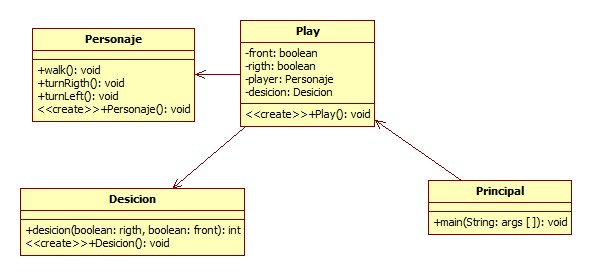
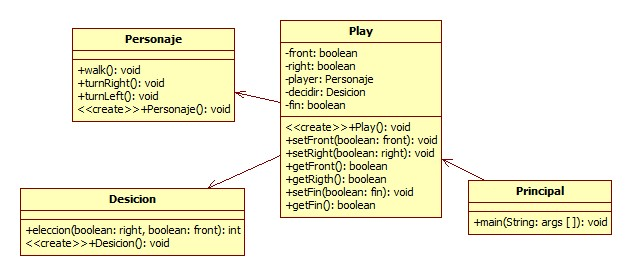
clases terminadas y uml arreglado

diff --git a/Programacion/Play.java b/Programacion/Play.java
@@ -1,0 +1,55 @@
+/******************************
+*
+*
+*
+*
+******************************/
+
+public class Play{
+	private boolean front;
+	private boolean right;
+	private Personaje player;
+	private Desicion decidir;
+	private boolean fin=false;
+
+	public void Play(){
+	}
+
+	public void run(){
+		int escoger=decidir.desicion();
+		if(escoger==0)
+			player.turnRight();
+		else if(escoger==1){
+			player.walk();
+		else
+			player.turnLeft();
+		}
+	}
+
+	public void setFront(boolean front){
+		this.front=front;
+	}
+
+	public void setRight(boolean right){
+		this.right=right;
+	}
+
+	public void setFin(boolean fin){
+		this.fin=fin;
+	}
+
+	public boolean getFront(){
+		return front;
+	}
+
+	public boolean getRight(){
+		return right;
+	}
+
+	public boolean getFin(){
+		return fin;
+	}
+
+}
+
+

diff --git a/Programacion/Desicion.java b/Programacion/Desicion.java
@@ -1,0 +1,21 @@
+/******************************
+*
+*
+*
+*
+******************************/
+
+public class Desicion{
+	public int eleccion(boolean right, boolean front){
+		if(right==true)
+			return 0;
+		else if(right==false && front==true)
+			return 1;
+		else 
+			return 2;
+	}
+
+	public void desicion(){
+
+	}
+}

diff --git a/Programacion/Main.java b/Programacion/Main.java
@@ -1,0 +1,6 @@
+/******************************
+*
+*
+*
+*
+******************************/
